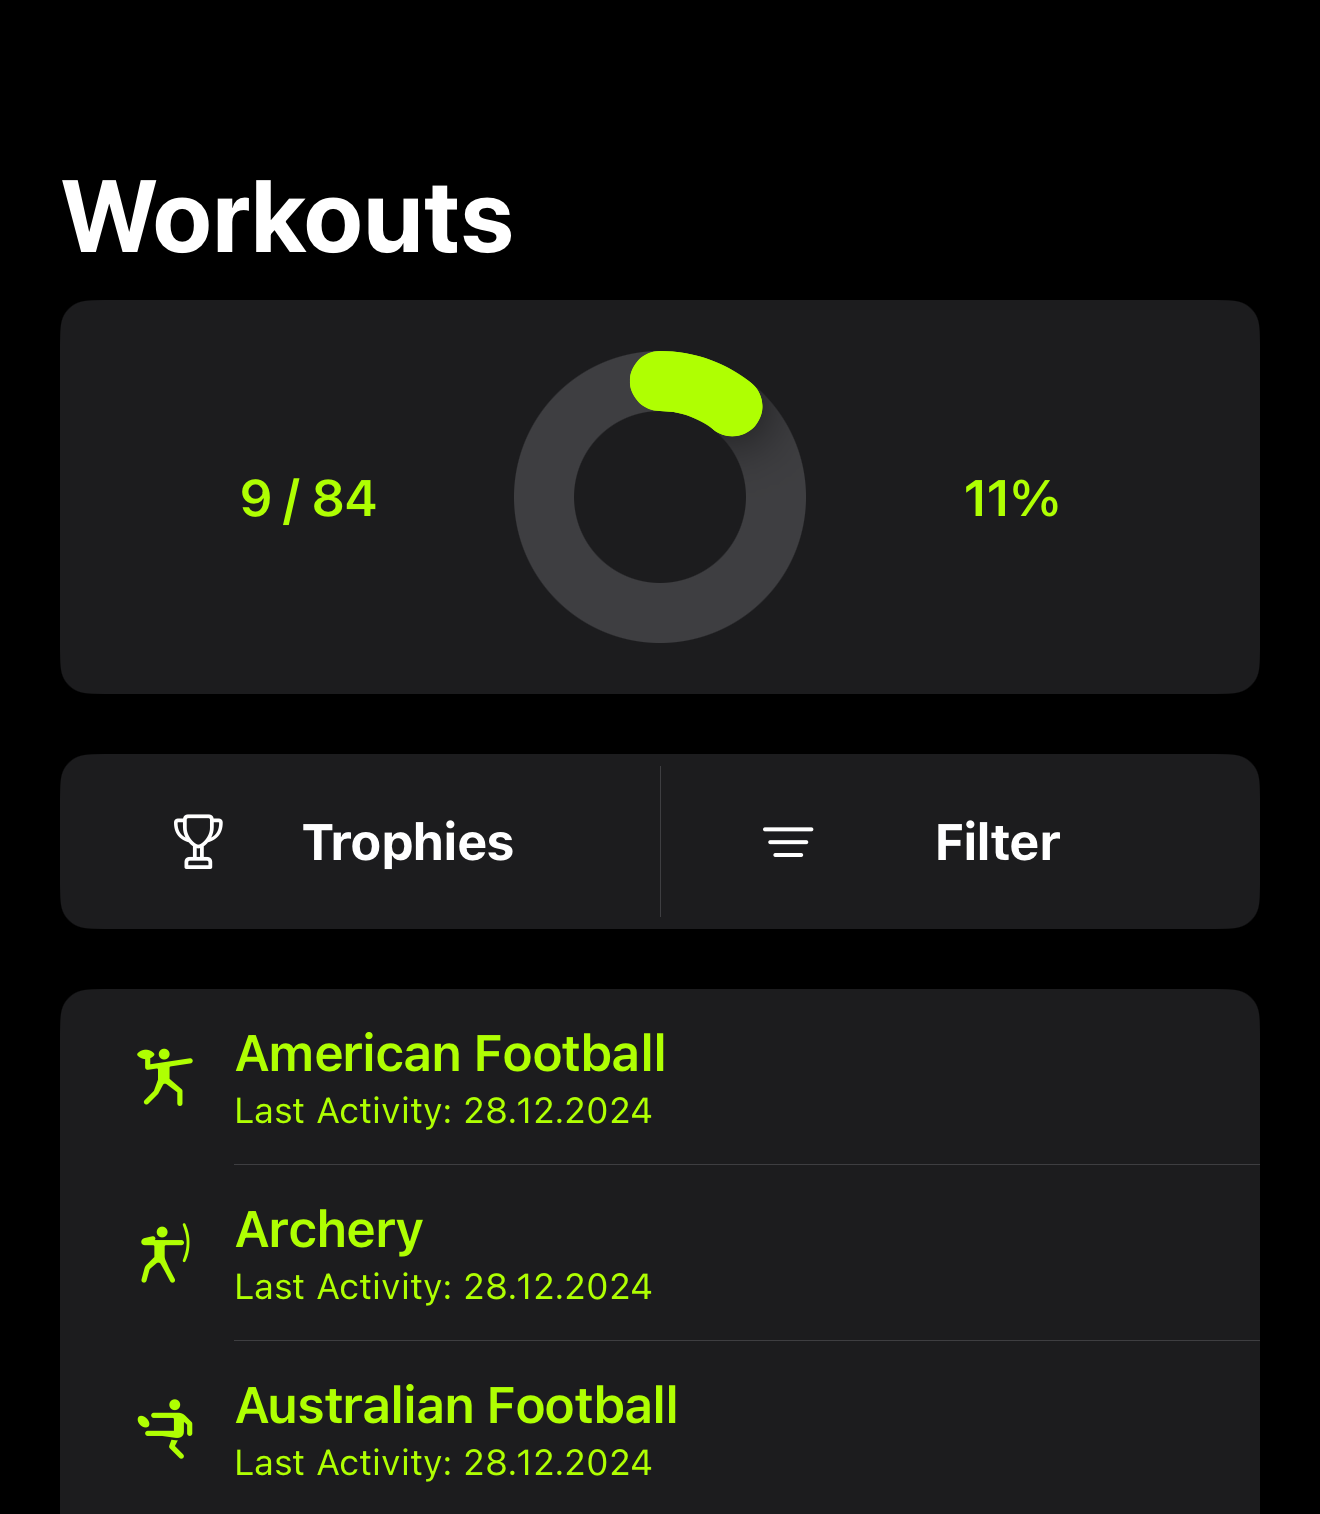
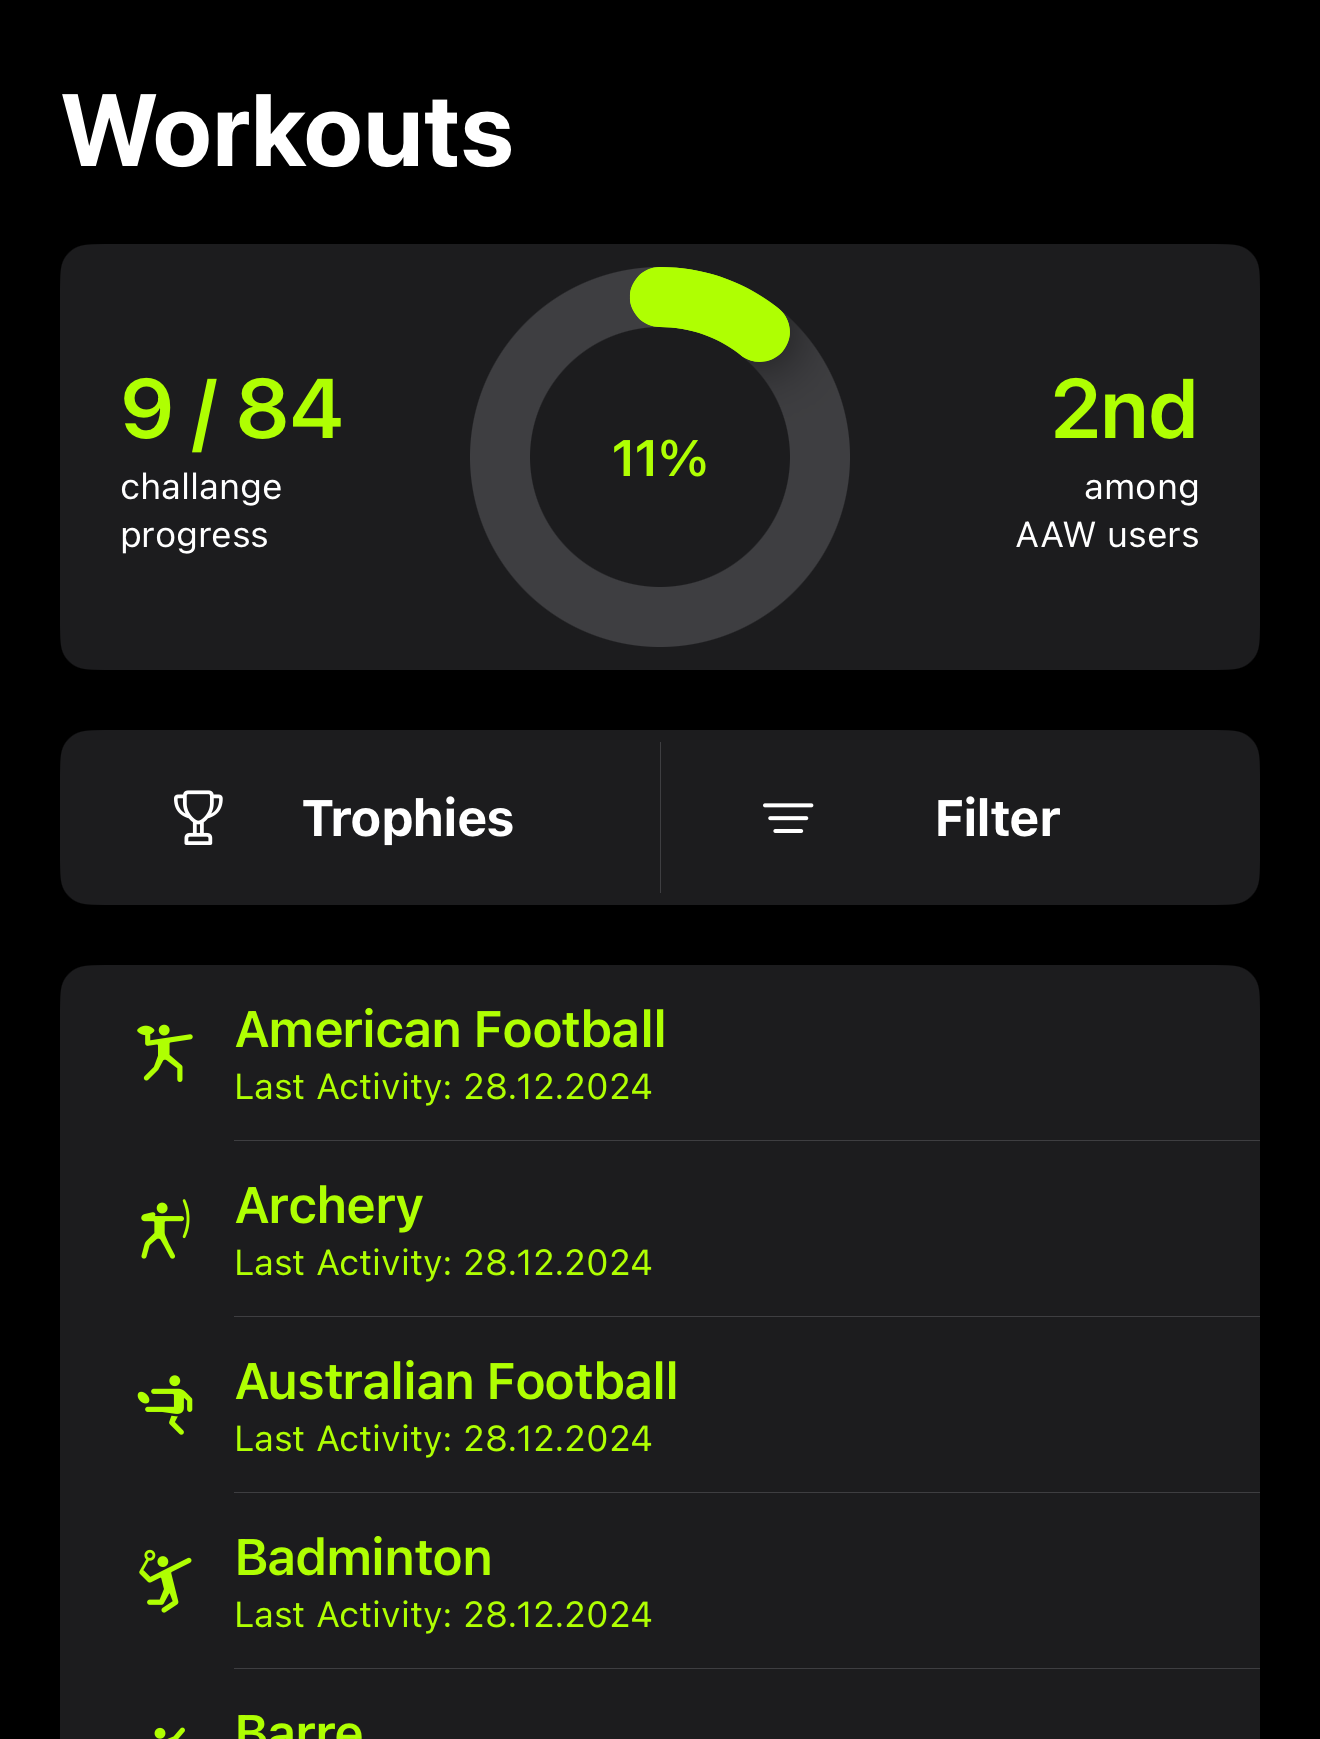
update README
(cherry picked from commit a61571c313f1978c0e0f687d350fe116f32e2a4f)

diff --git a/README.md b/README.md
@@ -21,10 +21,11 @@ An intuitive iOS app designed to track your workouts, monitor progress, and set 
   - Medium widget displaying streaks for up to eight workouts.
 - **Social Sharing**: Share your progress as a story on social media.
 - **Apple Watch Companion App**: Start workouts and track progress directly from your Apple Watch.
+- **Global User Ranking**: Track your progress among the community.
 
 ## 🛠 Technologies
 
-- Swift, SwiftUI, Combine, UserNotifications, WatchConnectivity, XCTest
+- Swift, SwiftUI, SwiftData, Combine, UserNotifications, WatchConnectivity, XCTest
 - HealthKit, WidgetKit, CloudKit
 - Gemini API Model: 1.5 Flash
 
